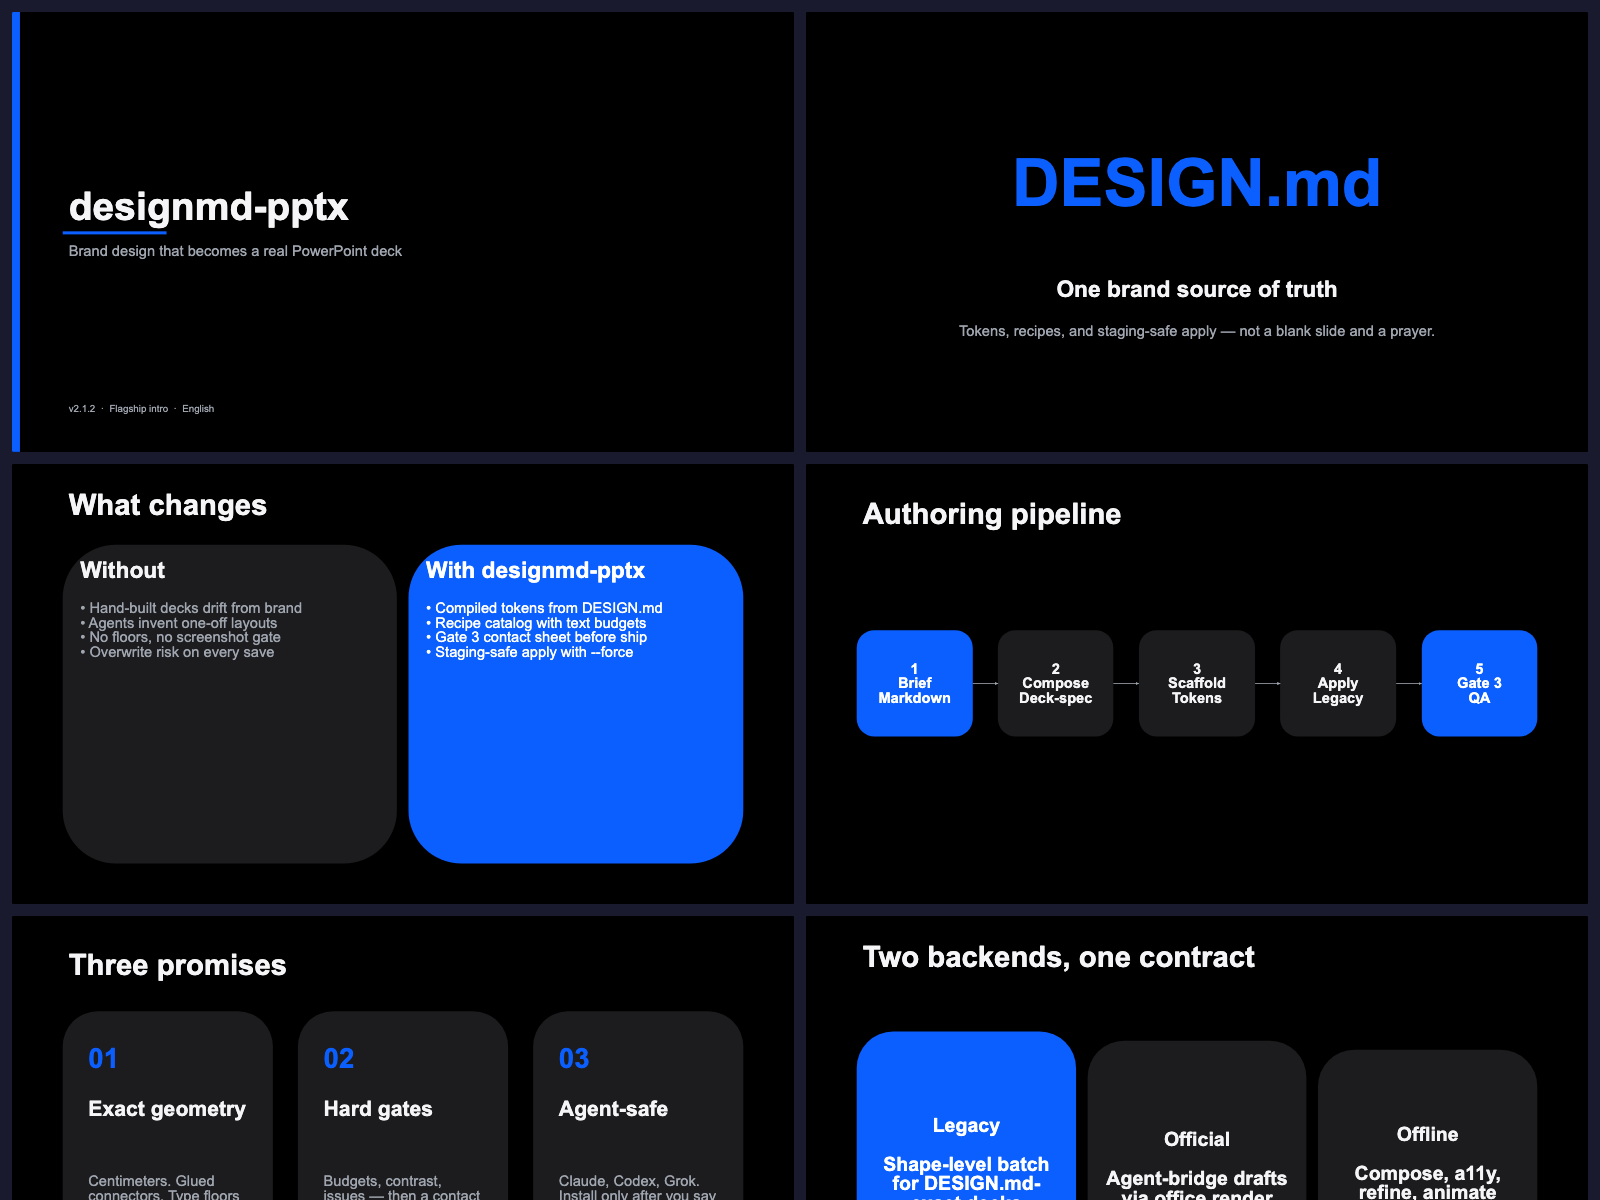
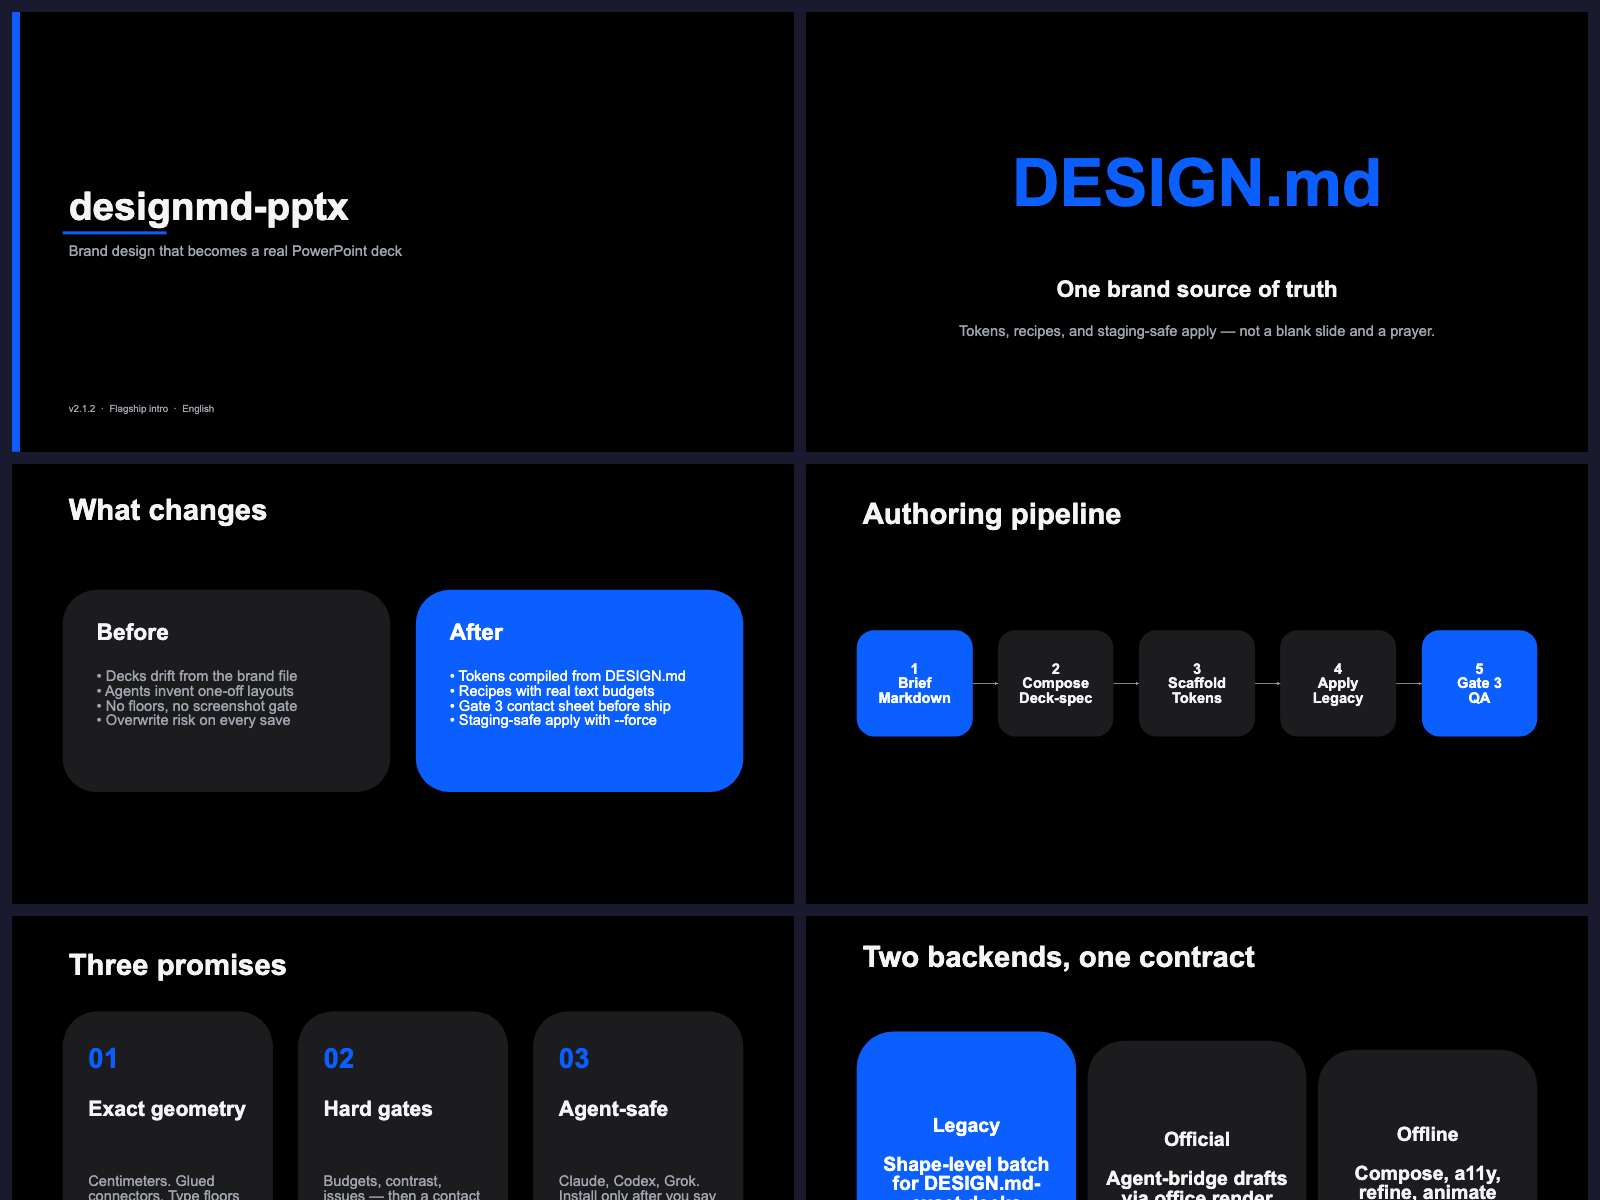
fix(recipes): before/after spacing from content, not canvas fill
Slide 3 was two 13.8 cm slabs with a 10.5 cm hollow body box and a
hard-coded 0.5 cm column gap — margins and size were ignored.

Size panels from pad + head + line-count body; column gap follows design
gap; inner pad tracks margin; bottom stage margin matches side margin;
settle the pair in the remaining band so cards neither flood the slide
nor float in the top third.

Changed region(s): [[0.0312, 0.4008, 0.4688, 0.74]]

diff --git a/python/designmd_pptx/recipes.py b/python/designmd_pptx/recipes.py
@@ -4890,7 +4890,16 @@ def recipe_hub_spoke(tokens: dict, content: dict | None = None) -> list[dict]:
 
 
 def recipe_before_after_slider(tokens: dict, content: dict | None = None) -> list[dict]:
-    """Before / after comparison (Wave 2) — two equal panels + divider."""
+    """Before / after comparison — two equal panels with content-sized height.
+
+    Spacing contract (16:9):
+    - Side margin ``m`` and bottom margin ``m`` match (no “fill the canvas”).
+    - Column gap uses design ``gap``, not a hard-coded 0.5 cm hairline.
+    - Inner pad ≈ 0.5×margin so type never kisses the card edge.
+    - Panel height = pad + head + body lines + pad — **not** a fixed 13.8 cm
+      slab with a 10.5 cm hollow body box.
+    - Extra vertical room stays as stage (black), not inflated text frames.
+    """
     b = _base_props(tokens)
     c, t = b["c"], b["t"]
     content = content or {}
@@ -4905,45 +4914,114 @@ def recipe_before_after_slider(tokens: dict, content: dict | None = None) -> lis
         left = {"title": "Before", "body": str(left)}
     if not isinstance(right, dict):
         right = {"title": "After", "body": str(right)}
+
+    canvas_w, canvas_h = 33.87, 19.05
     m = b["margin"]
-    usable = 33.87 - 2 * m
-    gap = 0.5
+    gap = max(0.7, float(b["gap"]))
+    usable = canvas_w - 2 * m
     col = (usable - gap) / 2
-    ops: list[dict] = [_slide_op(tokens), _title_op(tokens, "BaTitle", title)]
-    for i, (side, data) in enumerate((("Before", left), ("After", right))):
+    # Inner pad scales with margin (spacious → roomier type inset).
+    pad = max(1.0, min(1.4, m * 0.55))
+    body_pt = int(t["body_pt"])
+    head_pt = max(22, min(28, int(t["section_pt"])))
+    title_pt = int(t["title_pt"])
+
+    # Title band — top margin tracks stage margin.
+    title_y = max(1.2, m * 0.55)
+    title_h = 1.65
+    # Space between title and panel top (~0.45× margin).
+    title_to_panel = max(0.85, m * 0.45)
+    band_top = title_y + title_h + title_to_panel
+    bottom_m = m  # equal bottom margin = side margin
+
+    def _body_text(data: dict) -> str:
+        body = data.get("body") or data.get("text") or ""
+        if isinstance(body, list):
+            items = [str(x).strip() for x in body[:5] if str(x).strip()]
+            return "\n".join(f"• {x}" for x in items)
+        return str(body).strip()
+
+    left_body = _body_text(left)
+    right_body = _body_text(right)
+    # Line height ~1.45× body — open enough for 18pt bullets without packing.
+    line_h = body_pt * 0.0353 * 1.45
+    def _body_h(text: str) -> float:
+        n = max(1, text.count("\n") + 1)
+        return max(2.6, min(6.8, n * line_h + 0.55))
+
+    body_h = max(_body_h(left_body), _body_h(right_body))
+    head_h = 1.55
+    head_to_body = 0.55
+    panel_h = pad + head_h + head_to_body + body_h + pad
+    max_panel_h = canvas_h - band_top - bottom_m
+    # Cap so panels never eat the bottom margin; keep content snug, not stretched.
+    panel_h = min(panel_h, max_panel_h)
+    # Sit the pair in the remaining band: not glued under the title, not
+    # floating in the top third with a dead lower half.
+    free = max(0.0, max_panel_h - panel_h)
+    panel_y = band_top + free * 0.38
+
+    ops: list[dict] = [
+        _slide_op(tokens),
+        {
+            "command": "add",
+            "parent": "/slide[last()]",
+            "type": "shape",
+            "props": {
+                "name": "BaTitle",
+                "text": title,
+                "x": _cm(m),
+                "y": _cm(title_y),
+                "width": _cm(usable),
+                "height": _cm(title_h),
+                "font": t["heading_font"],
+                "size": str(title_pt),
+                "bold": "true",
+                "color": c["text_on_content"],
+                "fill": "none",
+            },
+        },
+    ]
+    for i, (side, data, body) in enumerate((
+        ("Before", left, left_body),
+        ("After", right, right_body),
+    )):
         x = m + i * (col + gap)
         fill = c["surface"] if i == 0 else c["accent"]
         tc = c["text_on_surface"] if i == 0 else c["on_accent"]
-        mc = c["muted"] if i == 0 else c["on_accent"]
+        # Muted on dark panel; on accent use slightly soft on_accent (full white is harsh for bullets).
+        bc = c["muted"] if i == 0 else c["on_accent"]
+        head = str(data.get("title") or side)
         ops.append({
             "command": "add", "parent": "/slide[last()]", "type": "shape",
             "props": {
                 "name": f"BaPanel{i + 1}", "preset": b["preset"],
                 "fill": fill, "line": "none",
-                "x": _cm(x), "y": "3.5cm", "width": _cm(col), "height": "13.8cm",
+                "x": _cm(x), "y": _cm(panel_y),
+                "width": _cm(col), "height": _cm(panel_h),
             },
         })
         ops.append({
             "command": "add", "parent": "/slide[last()]", "type": "shape",
             "props": {
                 "name": f"BaHead{i + 1}",
-                "text": str(data.get("title") or side),
-                "x": _cm(x + 0.5), "y": "4.0cm", "width": _cm(col - 1.0), "height": "1.4cm",
-                "font": t["heading_font"], "size": str(t["section_pt"]),
+                "text": head,
+                "x": _cm(x + pad), "y": _cm(panel_y + pad),
+                "width": _cm(col - 2 * pad), "height": _cm(head_h),
+                "font": t["heading_font"], "size": str(head_pt),
                 "bold": "true", "color": tc, "fill": "none",
             },
         })
-        body = data.get("body") or data.get("text") or ""
-        if isinstance(body, list):
-            body = "\n".join(f"• {x}" for x in body[:8])
         ops.append({
             "command": "add", "parent": "/slide[last()]", "type": "shape",
             "props": {
-                "name": f"BaBody{i + 1}", "text": str(body),
-                "x": _cm(x + 0.5), "y": "5.8cm",
-                "width": _cm(col - 1.0), "height": "10.5cm",
-                "font": t["body_font"], "size": str(t["body_pt"]),
-                "color": mc if i == 1 else c["muted"], "fill": "none",
+                "name": f"BaBody{i + 1}", "text": body,
+                "x": _cm(x + pad),
+                "y": _cm(panel_y + pad + head_h + head_to_body),
+                "width": _cm(col - 2 * pad),
+                "height": _cm(body_h),
+                "font": t["body_font"], "size": str(body_pt),
+                "color": bc, "fill": "none",
             },
         })
     ops.append({